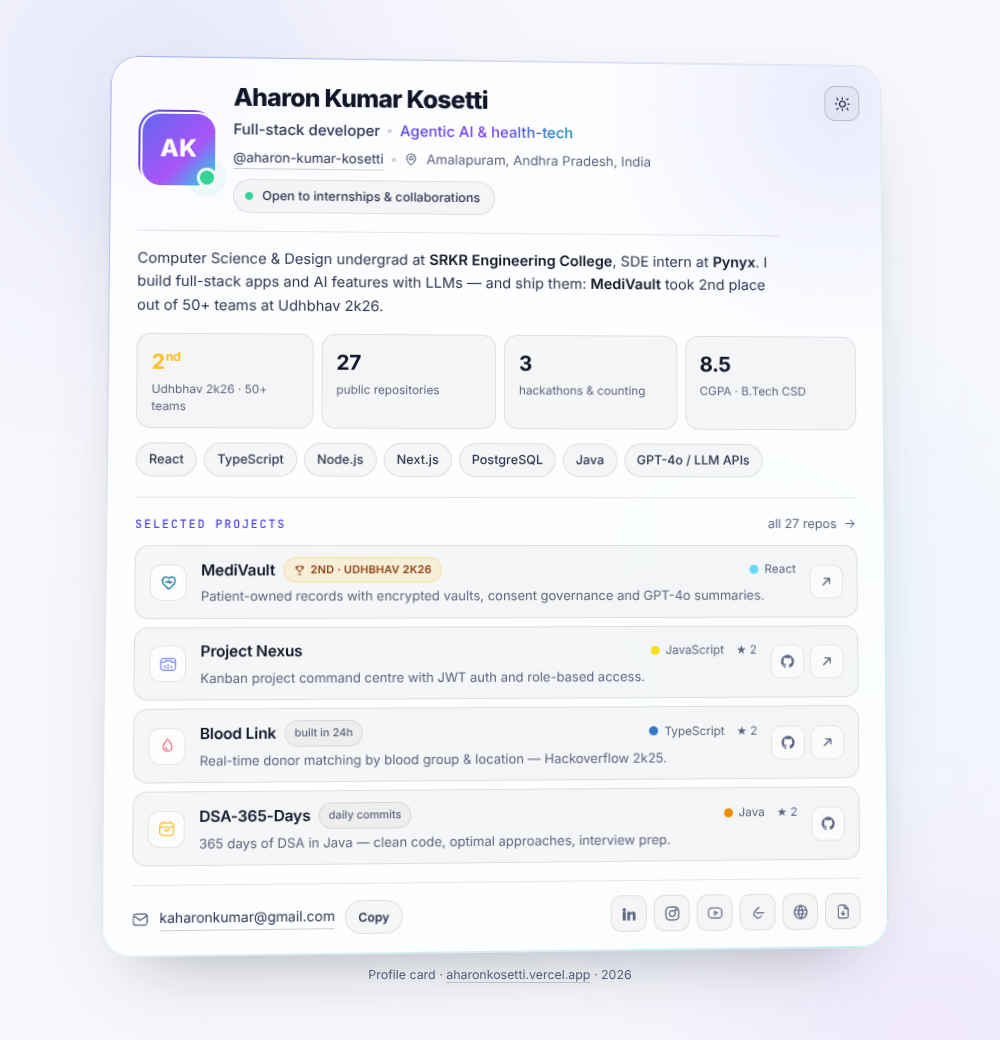
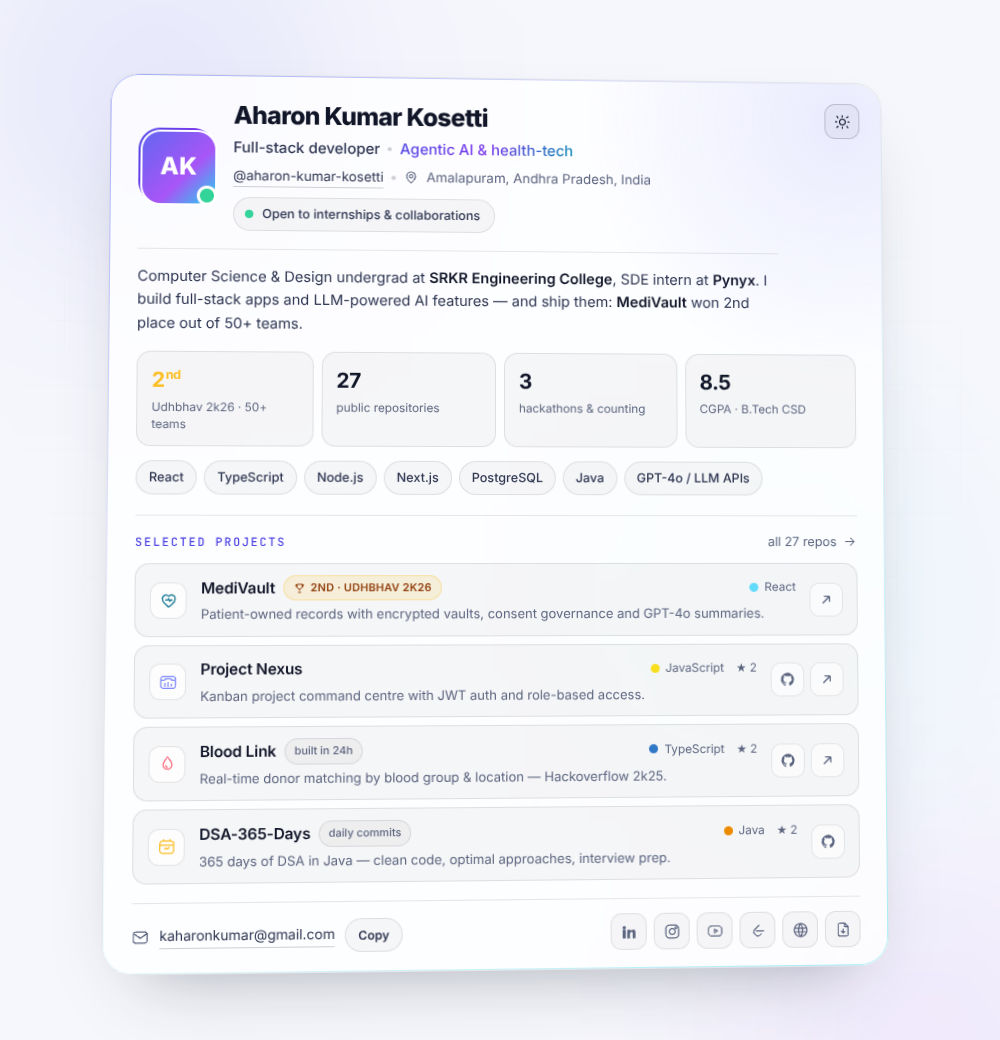
Make the card fit one screen; page is now only the card
- remove the caption line under the card (no other page chrome left)
- add a compact layout for short viewports: the whole card fits a
  1440x800 laptop screen without scrolling, still roomy on tall screens
- add .preview-server.py (no-cache static server) so local previews
  never serve a stale page
- refresh previews

diff --git a/assets/styles.css b/assets/styles.css
@@ -309,13 +309,6 @@ html[data-theme="light"] .tag-gold { color: #92400e; }
 .socials svg { width: 17px; height: 17px; fill: none; stroke: currentColor; stroke-width: 1.7; stroke-linecap: round; stroke-linejoin: round; }
 .socials svg.fill { fill: currentColor; stroke: none; }
 
-/* ---------- Under card ---------- */
-.under {
-  margin-top: 16px; text-align: center; font-size: 12.4px; color: var(--muted);
-}
-.under a { border-bottom: 1px solid var(--border-strong); }
-.under a:hover { color: var(--text); }
-
 /* ---------- Responsive ---------- */
 @media (max-width: 640px) {
   body { padding: 22px 12px; }
@@ -348,6 +341,40 @@ html[data-theme="light"] .tag-gold { color: #92400e; }
 @media (max-width: 420px) {
   .role { font-size: 14px; }
   .stats strong { font-size: 1.3rem; }
+}
+
+/* ---------- Compact mode on short viewports (laptop screens) ---------- */
+@media (min-width: 641px) and (max-height: 950px) {
+  body { padding: 14px 16px; }
+  .card { padding: 17px 22px 12px; border-radius: 22px; }
+  .avatar, .avatar img, .avatar-fallback { width: 60px; height: 60px; border-radius: 17px; }
+  .avatar { border-radius: 19px; }
+  .avatar-fallback { font-size: 20px; }
+  .ident h1 { font-size: 1.35rem; }
+  .ident { gap: 14px; padding-right: 44px; }
+  .role { margin-top: 4px; font-size: 14px; }
+  .where { margin-top: 4px; font-size: 12.8px; }
+  .pill { margin-top: 8px; padding: 5px 12px 5px 10px; font-size: 12.1px; }
+  .bio { margin-top: 12px; padding-top: 11px; font-size: 13.6px; }
+  .stats { margin-top: 11px; gap: 7px; }
+  .stats li { padding: 8px 11px; }
+  .stats strong { font-size: 1.14rem; }
+  .stats li > span { font-size: 11.4px; }
+  .chips { margin-top: 10px; gap: 6px; }
+  .chips li { padding: 4px 10px; font-size: 11.9px; }
+  .repos { margin-top: 13px; padding-top: 11px; }
+  .repos-head { margin-bottom: 8px; }
+  .repo-list { gap: 7px; }
+  .repo { padding: 8px 11px; gap: 11px; }
+  .repo-icon { width: 32px; height: 32px; border-radius: 10px; font-size: 15px; }
+  .repo-icon svg { width: 17px; height: 17px; }
+  .repo-title a { font-size: 14.6px; }
+  .repo-desc { font-size: 12.6px; }
+  .mini { width: 30px; height: 30px; border-radius: 9px; }
+  .mini svg { width: 15px; height: 15px; }
+  .card-foot { margin-top: 12px; padding-top: 10px; }
+  .socials a { width: 32px; height: 32px; border-radius: 10px; }
+  .socials svg { width: 16px; height: 16px; }
 }
 
 /* ---------- Motion / print ---------- */

diff --git a/index.html b/index.html
@@ -58,8 +58,8 @@
     <!-- ── bio ── -->
     <p class="bio">
       Computer Science &amp; Design undergrad at <strong>SRKR Engineering College</strong>, SDE intern at
-      <strong>Pynyx</strong>. I build full-stack apps and AI features with LLMs — and ship them:
-      <strong>MediVault</strong> took 2nd place out of 50+ teams at Udhbhav 2k26.
+      <strong>Pynyx</strong>. I build full-stack apps and LLM-powered AI features — and ship them:
+      <strong>MediVault</strong> won 2nd place out of 50+ teams.
     </p>
 
     <!-- ── stats ── -->
@@ -198,7 +198,6 @@
     </footer>
   </article>
 
-  <p class="under">Profile card · <a href="https://aharonkosetti.vercel.app" target="_blank" rel="noopener">aharonkosetti.vercel.app</a> · <span id="year"></span></p>
 </main>
 
 <script src="assets/app.js"></script>

diff --git a/.preview-server.py b/.preview-server.py
@@ -1,0 +1,28 @@
+#!/usr/bin/env python3
+"""Tiny static server for local preview — sends no-cache headers so edits
+always show up on reload (python's http.server lets browsers cache HTML)."""
+import functools
+import http.server
+import socketserver
+
+PORT = 3000
+DIRECTORY = "/home/user/aharon-kumar-kosetti"
+
+
+class Handler(http.server.SimpleHTTPRequestHandler):
+    def end_headers(self):
+        self.send_header("Cache-Control", "no-store, no-cache, must-revalidate, max-age=0")
+        self.send_header("Pragma", "no-cache")
+        self.send_header("Expires", "0")
+        super().end_headers()
+
+    def log_message(self, fmt, *args):  # keep the log tail short
+        pass
+
+
+Handler.extensions_map.update({".js": "text/javascript", ".css": "text/css", ".svg": "image/svg+xml"})
+
+with socketserver.ThreadingTCPServer(("0.0.0.0", PORT), functools.partial(Handler, directory=DIRECTORY)) as httpd:
+    httpd.allow_reuse_address = True
+    print(f"serving {DIRECTORY} on http://0.0.0.0:{PORT} (no-cache)", flush=True)
+    httpd.serve_forever()
